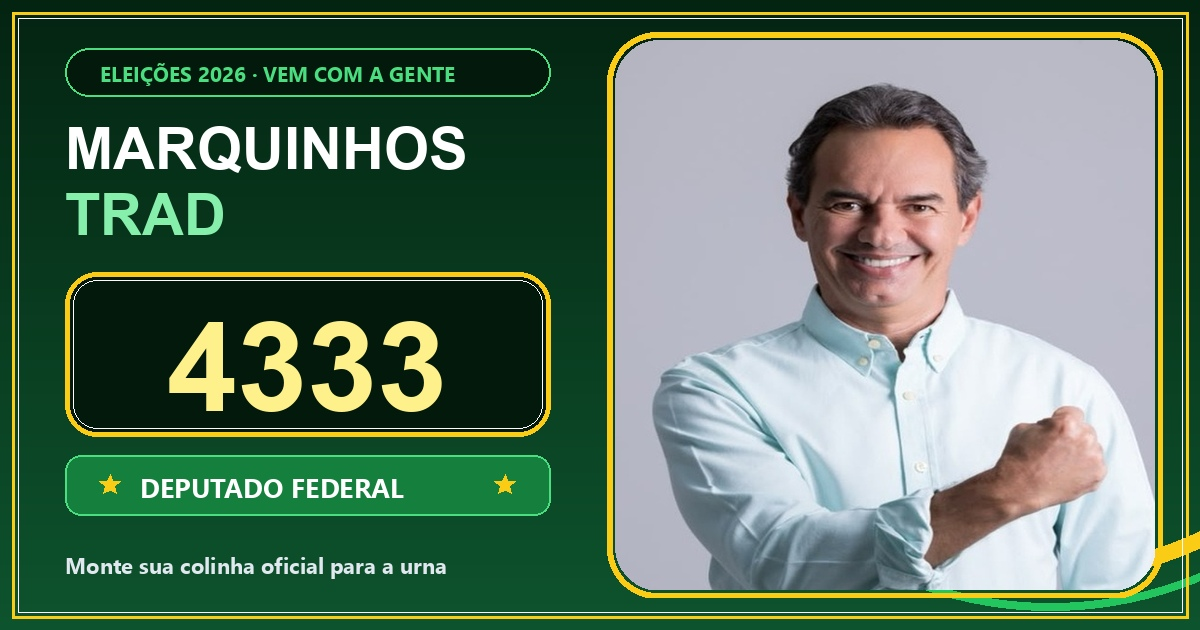
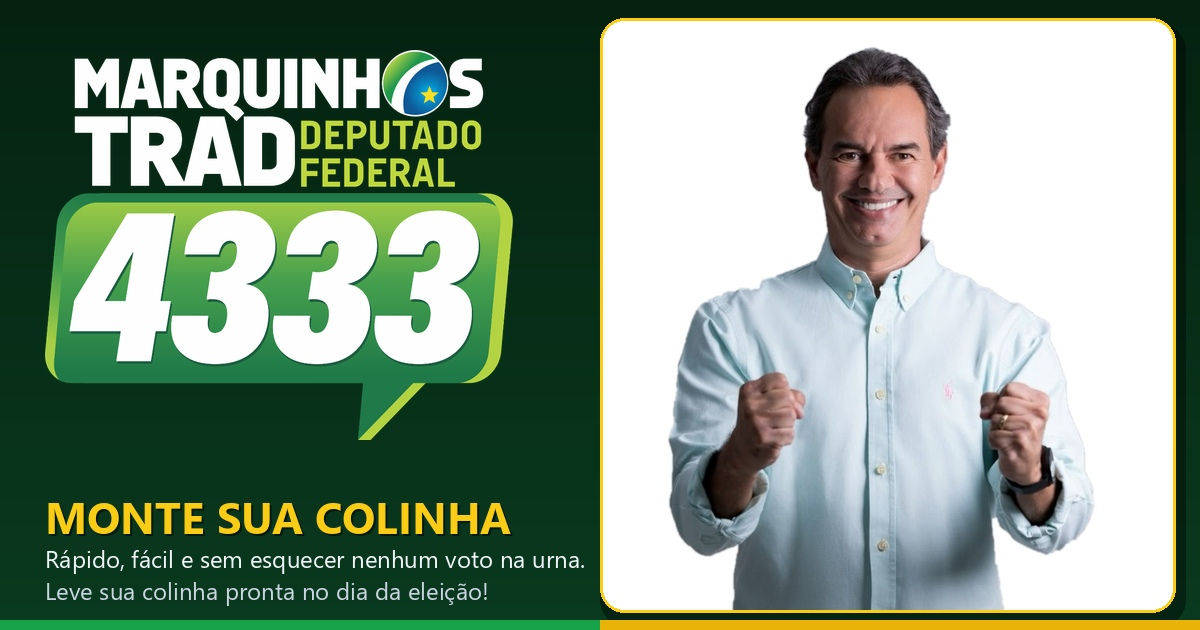
WhatsApp Preview Oficial: nova og-image com foto oficial aproximada, fundo branco de estudio, logomarca oficial autentica e frase 'MONTE SUA COLINHA' em destaque (v29)

diff --git a/public/index.html b/public/index.html
@@ -14,8 +14,8 @@
   <meta property="og:type" content="website">
   <meta property="og:title" content="🗳 Minha Colinha 2026 — Marquinhos Trad 4333">
   <meta property="og:description" content="Monte sua colinha oficial completa para levar à urna no dia da eleição com Marquinhos Trad 4333 e seus candidatos. Rápido e sem esquecer nenhum voto!">
-  <meta property="og:image" content="https://santinho-marquinhos-4333.pages.dev/og-image.jpg?v=24">
-  <meta property="og:image:secure_url" content="https://santinho-marquinhos-4333.pages.dev/og-image.jpg?v=24">
+  <meta property="og:image" content="https://santinho-marquinhos-4333.pages.dev/og-image.jpg?v=29">
+  <meta property="og:image:secure_url" content="https://santinho-marquinhos-4333.pages.dev/og-image.jpg?v=29">
   <meta property="og:image:type" content="image/jpeg">
   <meta property="og:image:width" content="1200">
   <meta property="og:image:height" content="630">
@@ -25,13 +25,13 @@
   <meta name="twitter:card" content="summary_large_image">
   <meta name="twitter:title" content="🗳 Minha Colinha 2026 — Marquinhos Trad 4333">
   <meta name="twitter:description" content="Monte sua colinha oficial completa para levar à urna no dia da eleição com Marquinhos Trad 4333 e seus candidatos.">
-  <meta name="twitter:image" content="https://santinho-marquinhos-4333.pages.dev/og-image.jpg?v=24">
+  <meta name="twitter:image" content="https://santinho-marquinhos-4333.pages.dev/og-image.jpg?v=29">
 
   <!-- Ícones e Favicon -->
-  <link rel="icon" type="image/png" sizes="64x64" href="favicon.png?v=24">
-  <link rel="icon" type="image/x-icon" href="favicon.ico?v=24">
-  <link rel="apple-touch-icon" sizes="180x180" href="apple-touch-icon.png?v=24">
-  <link rel="manifest" href="manifest.json?v=24">
+  <link rel="icon" type="image/png" sizes="64x64" href="favicon.png?v=29">
+  <link rel="icon" type="image/x-icon" href="favicon.ico?v=29">
+  <link rel="apple-touch-icon" sizes="180x180" href="apple-touch-icon.png?v=29">
+  <link rel="manifest" href="manifest.json?v=29">
 
   <!-- Fontes de Alta Legibilidade e Estilo Brush Vem com a Gente -->
   <link rel="preconnect" href="https://fonts.googleapis.com">

diff --git a/public/sw.js b/public/sw.js
@@ -4,7 +4,7 @@
  * e Cache-First para assets estáticos e fotos.
  */
 
-const CACHE_NAME = 'minha-colinha-v28';
+const CACHE_NAME = 'minha-colinha-v29';
 
 // Pré-cache vital enxuto: apenas o núcleo da aplicação (instalação imediata sem travar)
 const CORE_ASSETS = [
